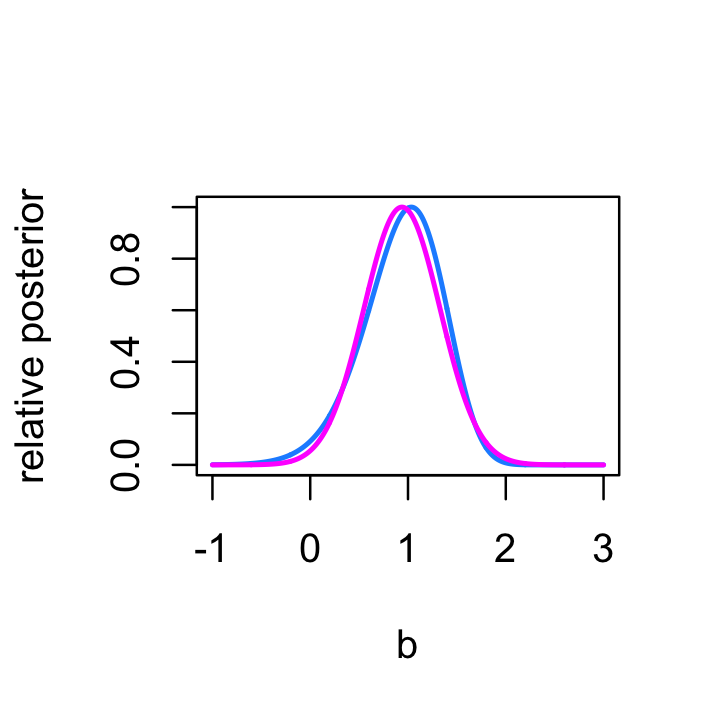
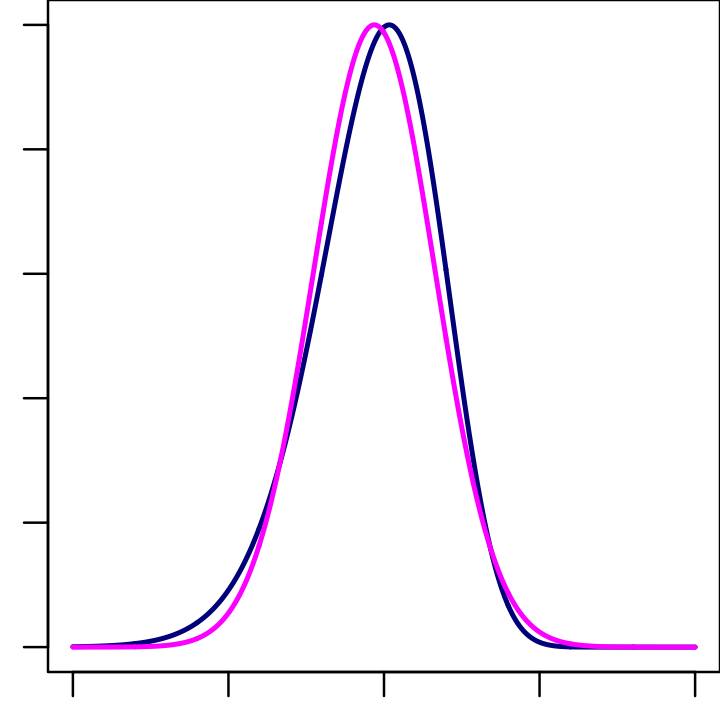
Fixed plot in vgapois_demo_1d analysis.

diff --git a/docs/vgapois_demo_1d.html b/docs/vgapois_demo_1d.html
@@ -414,16 +414,16 @@ This reproducible <a href="http://rmarkdown.rstudio.com">R Markdown</a> analysis
 <div class="panel panel-default">
 <div class="panel-heading">
 <p class="panel-title">
-<a data-toggle="collapse" data-parent="#workflowr-checks" href="#strongRepositoryversionstrongahrefhttpsgithubcompcarbovgapoistreef0c1c6ce2d3cb38e92bd3b0e4b2391c5b2b280aatargetblankf0c1c6ca"> <span class="glyphicon glyphicon-ok text-success" aria-hidden="true"></span> <strong>Repository version:</strong> <a href="https://github.com/pcarbo/vgapois/tree/f0c1c6ce2d3cb38e92bd3b0e4b2391c5b2b280aa" target="_blank">f0c1c6c</a> </a>
+<a data-toggle="collapse" data-parent="#workflowr-checks" href="#strongRepositoryversionstrongahrefhttpsgithubcompcarbovgapoistree29b7f6b63df6cd3e2cead1a81ea565e10d2eb640targetblank29b7f6ba"> <span class="glyphicon glyphicon-ok text-success" aria-hidden="true"></span> <strong>Repository version:</strong> <a href="https://github.com/pcarbo/vgapois/tree/29b7f6b63df6cd3e2cead1a81ea565e10d2eb640" target="_blank">29b7f6b</a> </a>
 </p>
 </div>
[2 lines of base64/hex data omitted]
 <div class="panel-body">
 <p>
 Great! You are using Git for version control. Tracking code development and connecting the code version to the results is critical for reproducibility.
 </p>
 <p>
-The results in this page were generated with repository version <a href="https://github.com/pcarbo/vgapois/tree/f0c1c6ce2d3cb38e92bd3b0e4b2391c5b2b280aa" target="_blank">f0c1c6c</a>. See the <em>Past versions</em> tab to see a history of the changes made to the R Markdown and HTML files.
+The results in this page were generated with repository version <a href="https://github.com/pcarbo/vgapois/tree/29b7f6b63df6cd3e2cead1a81ea565e10d2eb640" target="_blank">29b7f6b</a>. See the <em>Past versions</em> tab to see a history of the changes made to the R Markdown and HTML files.
 </p>
 <p>
 Note that you need to be careful to ensure that all relevant files for the analysis have been committed to Git prior to generating the results (you can use <code>wflow_publish</code> or <code>wflow_git_commit</code>). workflowr only checks the R Markdown file, but you know if there are other scripts or data files that it depends on. Below is the status of the Git repository when the results were generated:
@@ -469,6 +469,40 @@ Message
 </tr>
 </thead>
 <tbody>
+<tr>
+<td>
+Rmd
+</td>
+<td>
+<a href="https://github.com/pcarbo/vgapois/blob/29b7f6b63df6cd3e2cead1a81ea565e10d2eb640/analysis/vgapois_demo_1d.Rmd" target="_blank">29b7f6b</a>
+</td>
+<td>
+Peter Carbonetto
+</td>
+<td>
+2020-10-09
+</td>
+<td>
+workflowr::wflow_publish(“vgapois_demo_1d.Rmd”)
+</td>
+</tr>
+<tr>
+<td>
+html
+</td>
+<td>
+<a href="https://rawcdn.githack.com/pcarbo/vgapois/03de25f07220e744bce0cece0c40a0d3f69bdc79/docs/vgapois_demo_1d.html" target="_blank">03de25f</a>
+</td>
+<td>
+Peter Carbonetto
+</td>
+<td>
+2020-10-09
+</td>
+<td>
+Added text to vgapois_demo_1d analysis.
+</td>
+</tr>
 <tr>
 <td>
 Rmd
@@ -583,19 +617,57 @@ cat(sprintf(&quot;Variational lower bound: %0.12f\n&quot;,-fit$value))
 </div>
 <div id="compare-exact-and-approximate-posterior-distributions" class="section level2">
 <h2>Compare exact and approximate posterior distributions</h2>
-<pre class="r"><code>mu  &lt;- fit$par[&quot;mu&quot;]
-s   &lt;- fit$par[&quot;s&quot;]
-b    &lt;- seq(-1,3,length.out = 1000)
-n    &lt;- length(b)
-logp &lt;- rep(0,n)
-qb   &lt;- dnorm(b,mu,sqrt(s))
-for (i in 1:n)
+<p>Plot the exact posterior density (dark blue), and compare it against the variational Gaussian approximation (magenta).</p>
+<pre class="r"><code>ns   &lt;- 1000
+b    &lt;- seq(-1,3,length.out = ns)
+logp &lt;- rep(0,ns)
+for (i in 1:ns)
   logp[i] &lt;- compute_logp_pois(x,y,b0,b[i],s0)
-maxlp &lt;- max(logp)
-plot(b,exp(logp - maxlp),type = &quot;l&quot;,lwd = 2,col = &quot;dodgerblue&quot;,
-     xlab = &quot;b&quot;,ylab = &quot;relative posterior&quot;)
-lines(b,qb/max(qb),col = &quot;magenta&quot;,lwd = 2)</code></pre>
+par(mar = c(1,1,0,0))
+plot(b,exp(logp - max(logp)),type = &quot;l&quot;,lwd = 2,col = &quot;darkblue&quot;,
+     xlab = &quot;b&quot;,ylab = &quot;posterior&quot;)
+mu &lt;- fit$par[&quot;mu&quot;]
+s  &lt;- fit$par[&quot;s&quot;]
+pv &lt;- dnorm(b,mu,sqrt(s))
+lines(b,pv/max(pv),col = &quot;magenta&quot;,lwd = 2)</code></pre>
 <p><img src="figure/vgapois_demo_1d.Rmd/unnamed-chunk-1-1.png" width="360" style="display: block; margin: auto;" /></p>
+<p>
+<button type="button" class="btn btn-default btn-xs btn-workflowr btn-workflowr-fig" data-toggle="collapse" data-target="#fig-unnamed-chunk-1-1">
+Past versions of unnamed-chunk-1-1.png
+</button>
+</p>
+<div id="fig-unnamed-chunk-1-1" class="collapse">
+<div class="table-responsive">
+<table class="table table-condensed table-hover">
+<thead>
+<tr>
+<th>
+Version
+</th>
+<th>
+Author
+</th>
+<th>
+Date
+</th>
+</tr>
+</thead>
+<tbody>
+<tr>
+<td>
+<a href="https://github.com/pcarbo/vgapois/blob/03de25f07220e744bce0cece0c40a0d3f69bdc79/docs/figure/vgapois_demo_1d.Rmd/unnamed-chunk-1-1.png" target="_blank">03de25f</a>
+</td>
+<td>
+Peter Carbonetto
+</td>
+<td>
+2020-10-09
+</td>
+</tr>
+</tbody>
+</table>
+</div>
+</div>
 <br>
 <p>
 <button type="button" class="btn btn-default btn-workflowr btn-workflowr-sessioninfo" data-toggle="collapse" data-target="#workflowr-sessioninfo" style="display: block;">
